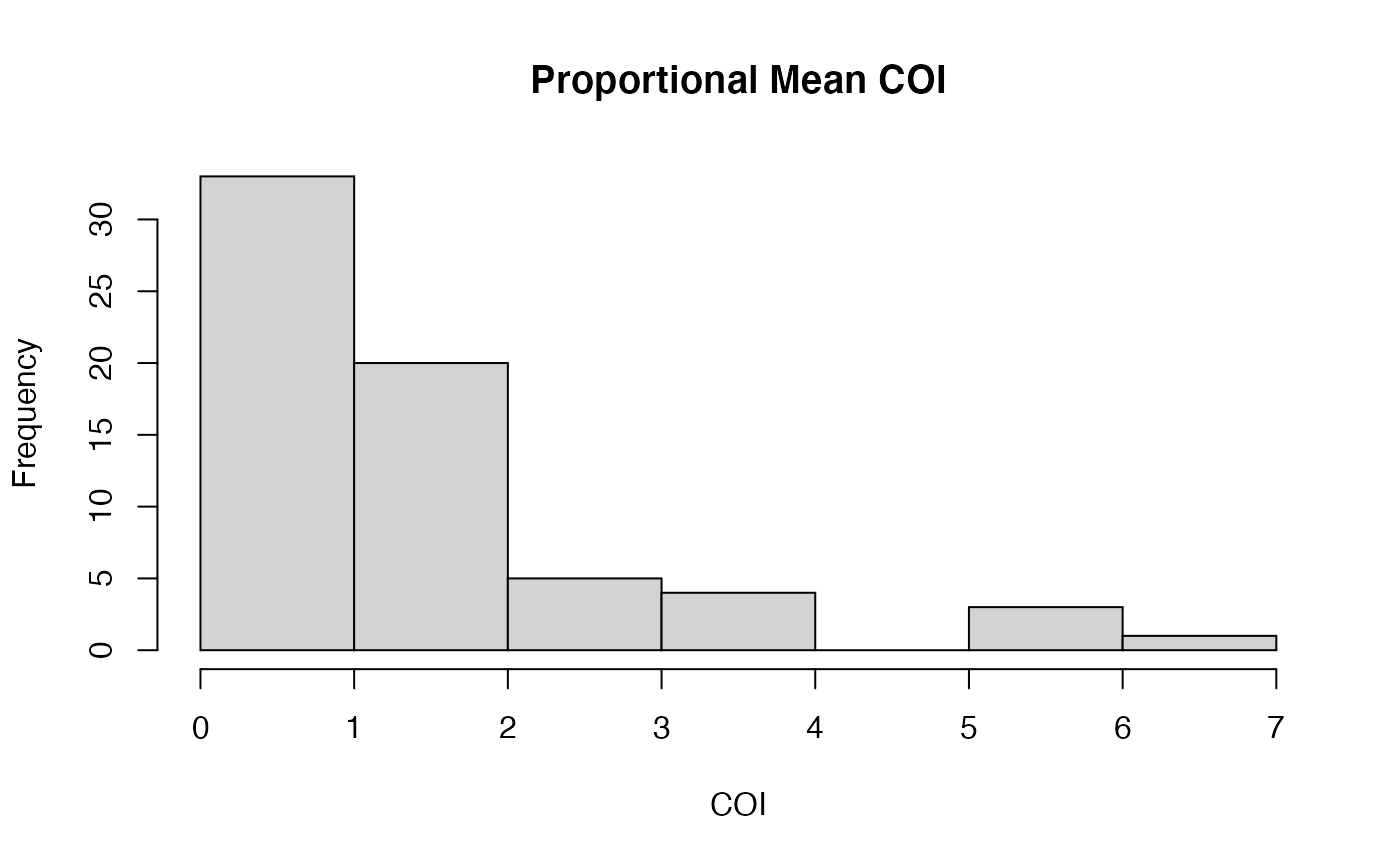
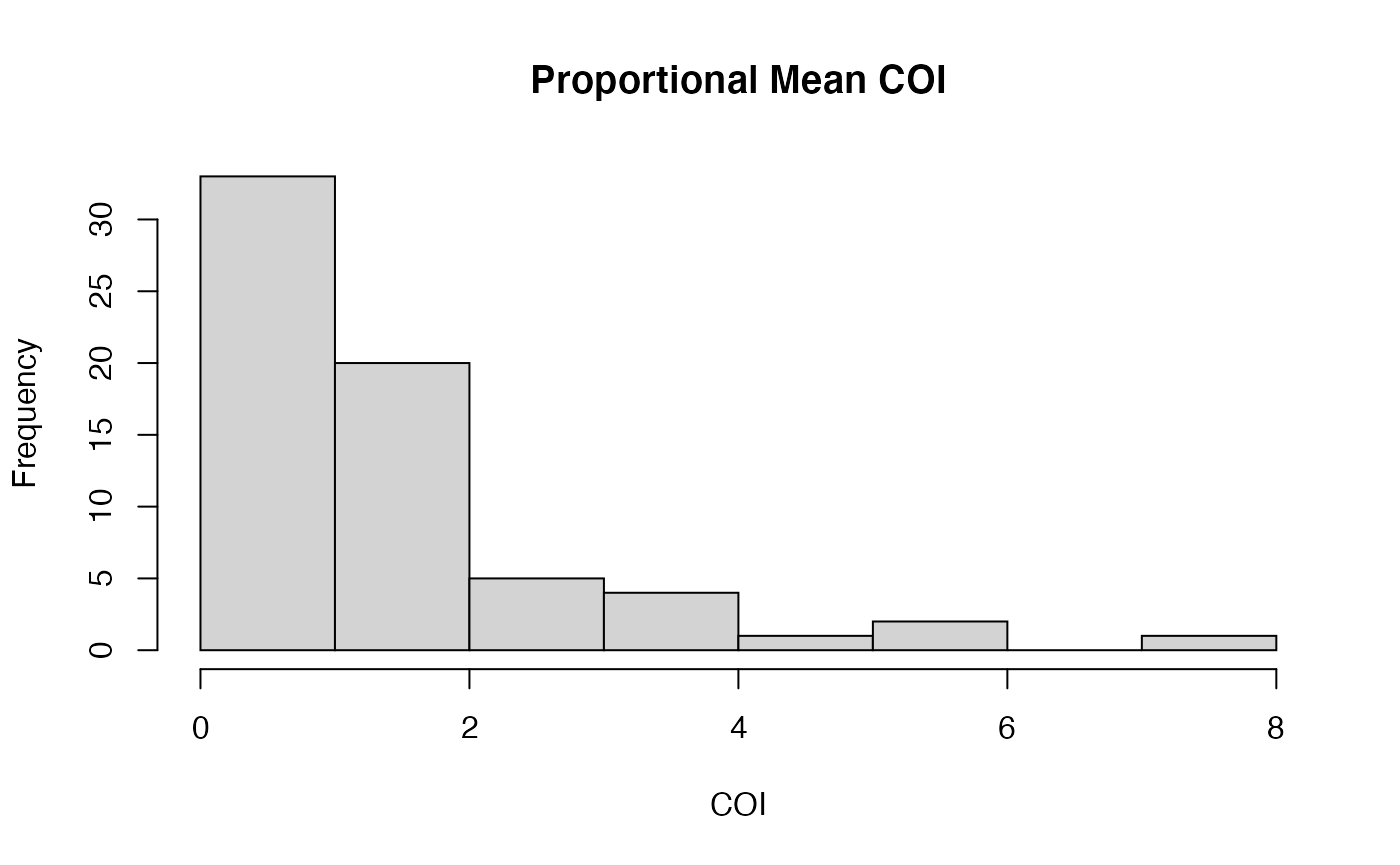
Built site for McCOILR: 1.3.1@f6a86b2

diff --git a/articles/introduction.html b/articles/introduction.html
@@ -33,7 +33,7 @@
       </button>
       <span class="navbar-brand">
         <a class="navbar-link" href="../index.html">McCOILR</a>
-        <span class="version label label-default" data-toggle="tooltip" data-placement="bottom" title="">1.3.0</span>
+        <span class="version label label-default" data-toggle="tooltip" data-placement="bottom" title="">1.3.1</span>
       </span>
     </div>
 
@@ -201,7 +201,7 @@
 <span class="va">out_cat</span> <span class="op">&lt;-</span> <span class="fu"><a href="../reference/McCOIL_categorical.html">McCOIL_categorical</a></span><span class="op">(</span><span class="va">data</span>,maxCOI<span class="op">=</span><span class="fl">25</span>, threshold_ind<span class="op">=</span><span class="fl">20</span>, threshold_site<span class="op">=</span><span class="fl">20</span>,
 totalrun<span class="op">=</span><span class="fl">1000</span>, burnin<span class="op">=</span><span class="fl">100</span>, M0<span class="op">=</span><span class="fl">15</span>, e1<span class="op">=</span><span class="fl">0.05</span>, e2<span class="op">=</span><span class="fl">0.05</span>,
 err_method<span class="op">=</span><span class="fl">3</span>, path<span class="op">=</span><span class="st">"cat_output"</span>, output<span class="op">=</span><span class="st">"output_test.txt"</span> <span class="op">)</span></code></pre></div>
-<pre><code>## Time = 0.00 s</code></pre>
+<pre><code>## Time = 1.00 s</code></pre>
 <div class="sourceCode" id="cb6"><pre class="downlit sourceCode r">
 <code class="sourceCode R"><span class="co">## proportional test</span>
 
@@ -329,7 +329,7 @@ output<span class="op">=</span><span class="st">"output_test.txt"</span> <span c
 ## Iter 4000 out of 5000
 ## Iter 4500 out of 5000
 ## Iter 5000 out of 5000
-## Time = 21.00 s</code></pre>
+## Time = 19.00 s</code></pre>
 <p>The R functions now return the summary outputs, just for ease of looking at the results:</p>
 <div class="sourceCode" id="cb10"><pre class="downlit sourceCode r">
 <code class="sourceCode R"><span class="co">## view summary data.frame for categorical</span>
@@ -338,11 +338,11 @@ output<span class="op">=</span><span class="st">"output_test.txt"</span> <span c
 ##  $ file         : chr  "output_test.txt" "output_test.txt" "output_test.txt" "output_test.txt" ...
 ##  $ CorP         : chr  "C" "C" "C" "C" ...
 ##  $ name         : chr  "ind1" "ind2" "ind3" "ind4" ...
-##  $ mean         : num  2 3 3 1 4 3 4 3 2 6 ...
+##  $ mean         : num  3 2 3 1 4 3 4 3 2 6 ...
 ##  $ median       : num  2 2 2 1 3 3 3 3 2 5 ...
-##  $ sd           : num  1.53 2.68 2.17 2.07 2.92 ...
+##  $ sd           : num  2.21 1.76 2.91 2.19 2.21 ...
 ##  $ quantile0.025: num  2 2 2 1 2 2 2 2 1 3 ...
-##  $ quantile0.975: num  5 12 10 11 15 ...</code></pre>
+##  $ quantile0.975: num  12 8 15 9 13 ...</code></pre>
 <div class="sourceCode" id="cb12"><pre class="downlit sourceCode r">
 <code class="sourceCode R"><span class="co">## Have a look at the categorical output COI distribution</span>
 <span class="fu"><a href="https://rdrr.io/r/graphics/hist.html" class="external-link">hist</a></span><span class="op">(</span><span class="fu"><a href="https://rdrr.io/r/base/numeric.html" class="external-link">as.numeric</a></span><span class="op">(</span><span class="fu"><a href="https://rdrr.io/r/base/character.html" class="external-link">as.character</a></span><span class="op">(</span><span class="va">out_cat</span><span class="op">$</span><span class="va">mean</span><span class="op">[</span><span class="va">out_cat</span><span class="op">$</span><span class="va">CorP</span><span class="op">==</span><span class="st">"C"</span><span class="op">]</span><span class="op">)</span><span class="op">)</span>,
@@ -355,11 +355,11 @@ main <span class="op">=</span> <span class="st">"Categorical Mean COI"</span>, x
 ##  $ file         : chr  "output_test.txt" "output_test.txt" "output_test.txt" "output_test.txt" ...
 ##  $ CorP         : chr  "C" "C" "C" "C" ...
 ##  $ name         : chr  "ind1" "ind2" "ind3" "ind4" ...
-##  $ mean         : num  2 2 2 6 2 4 7 2 2 2 ...
+##  $ mean         : num  2 2 2 6 2 4 8 2 2 2 ...
 ##  $ median       : num  2 2 2 6 2 4 7 2 2 2 ...
-##  $ sd           : num  0.3171 0.1417 0.0353 1.2569 0.4502 ...
+##  $ sd           : num  0.2934 0.1467 0.0418 1.2331 0.4571 ...
 ##  $ quantile0.025: num  2 2 2 4 2 3 5 2 2 2 ...
-##  $ quantile0.975: num  3 2 2 9 3 5 11 3 2 3 ...</code></pre>
+##  $ quantile0.975: num  3 2 2 9 3 5 12 2 2 3 ...</code></pre>
 <div class="sourceCode" id="cb15"><pre class="downlit sourceCode r">
 <code class="sourceCode R"><span class="co">## Have a look at the proportional output COI distribution</span>
 <span class="fu"><a href="https://rdrr.io/r/graphics/hist.html" class="external-link">hist</a></span><span class="op">(</span><span class="fu"><a href="https://rdrr.io/r/base/numeric.html" class="external-link">as.numeric</a></span><span class="op">(</span><span class="fu"><a href="https://rdrr.io/r/base/character.html" class="external-link">as.character</a></span><span class="op">(</span><span class="va">out_prop</span><span class="op">$</span><span class="va">mean</span><span class="op">[</span><span class="va">out_cat</span><span class="op">$</span><span class="va">CorP</span><span class="op">==</span><span class="st">"C"</span><span class="op">]</span><span class="op">)</span><span class="op">)</span>,

diff --git a/index.html b/index.html
@@ -33,7 +33,7 @@
       </button>
       <span class="navbar-brand">
         <a class="navbar-link" href="index.html">McCOILR</a>
-        <span class="version label label-default" data-toggle="tooltip" data-placement="bottom" title="">1.3.0</span>
+        <span class="version label label-default" data-toggle="tooltip" data-placement="bottom" title="">1.3.1</span>
       </span>
     </div>
 
@@ -80,7 +80,7 @@
 <p><em>McCOILR</em> is an Rcpp wrapper for <a href="https://github.com/Greenhouse-Lab/THEREALMcCOIL" class="external-link">THE REAL McCOIL</a> software developed by the <a href="https://github.com/Greenhouse-Lab" class="external-link">Greenhouse Lab</a> that estimates complexity of infection and population allele frequencies using SNP data obtained from Sequenom or similar types of SNP assays. It was simply created to aid incorporating COI estimation more easily within distributed computing pipelines, and I claim no ownership over the original source code, and all attribution and acknowledgement should be referred to the original <a href="https://github.com/Greenhouse-Lab/THEREALMcCOIL" class="external-link">project</a>, and the <a href="http://journals.plos.org/ploscompbiol/article?id=10.1371/journal.pcbi.1005348" class="external-link">associated publication</a>. I have simply provided this wrapper in the hope that it might be helpful for others, and have provided a tutorial for basic use.</p>
 <hr>
 <blockquote>
-<p>To view the tutorial please click <a href="https://htmlpreview.github.io/?https://github.com/OJWatson/McCOILR/blob/master/tutorials/Overview.html" class="external-link">here</a>.</p>
+<p>To view the tutorial please click <a href="https://ojwatson.github.io/McCOILR/articles/introduction.html" class="external-link">here</a>.</p>
 </blockquote>
 <hr>
 </div>
@@ -142,7 +142,10 @@
 <div class="dev-status">
 <h2 data-toc-skip>Dev status</h2>
 <ul class="list-unstyled">
-<li><a href="https://travis-ci.org/OJWatson/McCOILR" class="external-link"><img src="https://travis-ci.org/OJWatson/McCOILR.png?branch=master" alt="Build Status"></a></li>
+<li><a href="https://www.repostatus.org/#active" class="external-link"><img src="https://www.repostatus.org/badges/latest/active.svg" alt="Project Status: Active – The project has reached a stable, usable state and is being actively developed."></a></li>
+<li><a href="https://github.com/OJWatson/McCOILR/actions" class="external-link"><img src="https://github.com/OJWatson/McCOILR/workflows/R-CMD-check/badge.svg" alt="R build status"></a></li>
+<li><a href="https://codecov.io/gh/OJWatson/McCOILR?branch=master" class="external-link"><img src="https://codecov.io/gh/OJWatson/McCOILR/branch/master/graph/badge.svg" alt="Codecov test coverage"></a></li>
+<li><a href="https://ojwatson.github.io/McCOILR/" class="external-link"><img src="https://github.com/OJWatson/McCOILR/raw/master/tools/pkgdownshield.png" alt="Documentation via pkgdown"></a></li>
 </ul>
 </div>
 

diff --git a/news/index.html b/news/index.html
@@ -17,7 +17,7 @@
       </button>
       <span class="navbar-brand">
         <a class="navbar-link" href="../index.html">McCOILR</a>
-        <span class="version label label-default" data-toggle="tooltip" data-placement="bottom" title="">1.3.0</span>
+        <span class="version label label-default" data-toggle="tooltip" data-placement="bottom" title="">1.3.1</span>
       </span>
     </div>
 
@@ -51,6 +51,11 @@
       
     </div>
 
+    <div id="mccoilr-131" class="section level2">
+<h2 class="hasAnchor">
+<a href="#mccoilr-131" class="anchor" aria-hidden="true"></a>McCOILR 1.3.1</h2>
+<ul><li>Updates for <code>Rcpp</code> loading for vignette builds</li>
+</ul></div>
     <div id="mccoilr-130" class="section level2">
 <h2 class="hasAnchor">
 <a href="#mccoilr-130" class="anchor" aria-hidden="true"></a>McCOILR 1.3.0</h2>

diff --git a/articles/index.html b/articles/index.html
@@ -17,7 +17,7 @@
       </button>
       <span class="navbar-brand">
         <a class="navbar-link" href="../index.html">McCOILR</a>
-        <span class="version label label-default" data-toggle="tooltip" data-placement="bottom" title="">1.3.0</span>
+        <span class="version label label-default" data-toggle="tooltip" data-placement="bottom" title="">1.3.1</span>
       </span>
     </div>
 

diff --git a/reference/McCOILR.html b/reference/McCOILR.html
@@ -17,7 +17,7 @@
       </button>
       <span class="navbar-brand">
         <a class="navbar-link" href="../index.html">McCOILR</a>
-        <span class="version label label-default" data-toggle="tooltip" data-placement="bottom" title="">1.3.0</span>
+        <span class="version label label-default" data-toggle="tooltip" data-placement="bottom" title="">1.3.1</span>
       </span>
     </div>
 

diff --git a/reference/McCOIL_categorical.html b/reference/McCOIL_categorical.html
@@ -17,7 +17,7 @@
       </button>
       <span class="navbar-brand">
         <a class="navbar-link" href="../index.html">McCOILR</a>
-        <span class="version label label-default" data-toggle="tooltip" data-placement="bottom" title="">1.3.0</span>
+        <span class="version label label-default" data-toggle="tooltip" data-placement="bottom" title="">1.3.1</span>
       </span>
     </div>
 

diff --git a/reference/McCOIL_categorical_cpp.html b/reference/McCOIL_categorical_cpp.html
@@ -17,7 +17,7 @@
       </button>
       <span class="navbar-brand">
         <a class="navbar-link" href="../index.html">McCOILR</a>
-        <span class="version label label-default" data-toggle="tooltip" data-placement="bottom" title="">1.3.0</span>
+        <span class="version label label-default" data-toggle="tooltip" data-placement="bottom" title="">1.3.1</span>
       </span>
     </div>
 

diff --git a/reference/McCOIL_proportional.html b/reference/McCOIL_proportional.html
@@ -17,7 +17,7 @@
       </button>
       <span class="navbar-brand">
         <a class="navbar-link" href="../index.html">McCOILR</a>
-        <span class="version label label-default" data-toggle="tooltip" data-placement="bottom" title="">1.3.0</span>
+        <span class="version label label-default" data-toggle="tooltip" data-placement="bottom" title="">1.3.1</span>
       </span>
     </div>
 

diff --git a/reference/McCOIL_proportional_cpp.html b/reference/McCOIL_proportional_cpp.html
@@ -17,7 +17,7 @@
       </button>
       <span class="navbar-brand">
         <a class="navbar-link" href="../index.html">McCOILR</a>
-        <span class="version label label-default" data-toggle="tooltip" data-placement="bottom" title="">1.3.0</span>
+        <span class="version label label-default" data-toggle="tooltip" data-placement="bottom" title="">1.3.1</span>
       </span>
     </div>
 

diff --git a/reference/index.html b/reference/index.html
@@ -32,7 +32,7 @@
       </button>
       <span class="navbar-brand">
         <a class="navbar-link" href="../index.html">McCOILR</a>
-        <span class="version label label-default" data-toggle="tooltip" data-placement="bottom" title="">1.3.0</span>
+        <span class="version label label-default" data-toggle="tooltip" data-placement="bottom" title="">1.3.1</span>
       </span>
     </div>
 

diff --git a/reference/pipe.html b/reference/pipe.html
@@ -17,7 +17,7 @@
       </button>
       <span class="navbar-brand">
         <a class="navbar-link" href="../index.html">McCOILR</a>
-        <span class="version label label-default" data-toggle="tooltip" data-placement="bottom" title="">1.3.0</span>
+        <span class="version label label-default" data-toggle="tooltip" data-placement="bottom" title="">1.3.1</span>
       </span>
     </div>
 

diff --git a/404.html b/404.html
@@ -32,7 +32,7 @@
       </button>
       <span class="navbar-brand">
         <a class="navbar-link" href="index.html">McCOILR</a>
-        <span class="version label label-default" data-toggle="tooltip" data-placement="bottom" title="">1.3.0</span>
+        <span class="version label label-default" data-toggle="tooltip" data-placement="bottom" title="">1.3.1</span>
       </span>
     </div>
 
